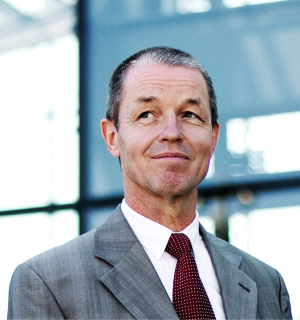
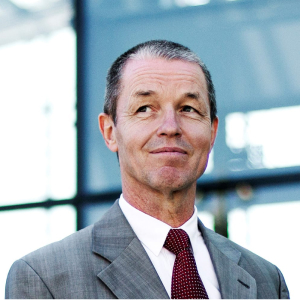
style updates

diff --git a/app/routes/_index.tsx b/app/routes/_index.tsx
@@ -9,8 +9,8 @@ import {
 
 export const meta: MetaFunction = () => {
   return [
-    { title: 'Remix+Vite' },
-    { name: 'description', content: 'Welcome to Remix+Vite!' },
+    { title: 'Sakamico Mining Company Inc.' },
+    { name: 'description', content: 'Sustainable Gold Mining in Liberia  ' },
   ]
 }
 
@@ -62,7 +62,7 @@ export default function Index() {
               <button
                 data-collapse-toggle="mobile-menu-2"
                 type="button"
-                className="ml-1 inline-flex items-center rounded-lg p-2 text-sm text-gray-500 hover:bg-gray-100 focus:outline-none focus:ring-2 focus:ring-gray-200 lg:hidden  "
+                className="ml-1 inline-flex items-center rounded-lg p-2 text-sm text-gray-500 hover:bg-gray-100 hover:text-black focus:outline-none focus:ring-2 focus:ring-gray-200 lg:hidden  "
                 aria-controls="mobile-menu-2"
                 aria-expanded="false"
               >
@@ -98,6 +98,22 @@ export default function Index() {
               id="mobile-menu-2"
             >
               <ul className="mt-4 flex flex-col text-xl font-medium lg:mt-0 lg:flex-row lg:space-x-8">
+                <li>
+                  <a
+                    href="#value"
+                    className="lg:hover:text-primary-700 block border-b border-gray-100 py-2 pl-3 pr-4 text-gray-300 hover:bg-gray-50 lg:border-0 lg:p-0 lg:hover:bg-transparent  "
+                  >
+                    Gold Commodity
+                  </a>
+                </li>
+                <li>
+                  <a
+                    href="#about"
+                    className="lg:hover:text-primary-700 block border-b border-gray-100 py-2 pl-3 pr-4 text-gray-300 hover:bg-gray-50 lg:border-0 lg:p-0 lg:hover:bg-transparent  "
+                  >
+                    About Sakamico
+                  </a>
+                </li>
                 <li>
                   <a
                     href="#team"
@@ -153,8 +169,8 @@ export default function Index() {
               </p>
 
               <a
-                href="#"
-                className="inline-flex items-center justify-center  border border-gray-300 px-5 py-3 text-center text-xl font-medium text-gray-200 hover:bg-gray-100 focus:ring-4 focus:ring-gray-100  "
+                href="#value"
+                className="inline-flex items-center justify-center  border border-gray-300 px-5 py-3 text-center text-xl font-medium text-gray-200 hover:bg-gray-100 hover:text-gray-900 focus:ring-4 focus:ring-gray-100  "
               >
                 Learn More{' '}
               </a>
@@ -166,23 +182,83 @@ export default function Index() {
           </div>
         </section>
 
-        <section className="bg-[#191919] text-white">
+        <section id="value" className="bg-[#191919] text-white">
           <div className=" mx-auto px-4 py-8 lg:px-6  lg:pt-32 ">
-            <div className="mx-auto mb-8 text-center ">
+            <div className="mx-auto mb-16 text-center ">
               <h2 className="text-base font-semibold leading-7 text-yellow-500">
                 Sound Investment
               </h2>
-              <p className="mb-12 mt-2 text-3xl font-bold tracking-tight text-gray-100 sm:text-4xl">
-                Today's Gold Prices
+              <p className=" mt-2 text-3xl font-bold tracking-tight text-gray-100 sm:text-4xl">
+                Gold: A Stable Investment at an All Time High{' '}
               </p>
-              <iframe
-                src="https://goldbroker.com/widget/live/XAU?currency=USD&height=500"
-                scrolling="no"
-                frameBorder="0"
-                width="100%"
-                height="500"
-                style={{ border: 0, overflow: 'hidden' }}
-              ></iframe>
+              <p className="mx-auto mt-2 max-w-6xl font-light text-gray-400 sm:text-xl lg:mb-6 ">
+                Gold's remarkable journey to its current peak value underscores
+                its unwavering appeal as a secure and steady investment. Amidst
+                global economic uncertainties, gold shines as a resilient store
+                of value, offering investors a safe haven and a hedge against
+                inflation. Its current all-time high not only reflects its
+                enduring significance but also presents a prime opportunity for
+                those looking to diversify and strengthen their investment
+                portfolio with a commodity that has consistently proven its
+                worth over time.
+              </p>
+              <div className="flex flex-col md:flex-row md:space-x-2">
+                <div className="flex w-full flex-col space-y-2">
+                  <iframe
+                    src="https://goldbroker.com/widget/live/XAU?currency=USD&weight_unit=kg&height=500"
+                    scrolling="no"
+                    frameBorder="0"
+                    width="100%"
+                    height="500"
+                    style={{ border: 0, overflow: 'hidden' }}
+                  ></iframe>
+                  <p>Todays Prices</p>
+                </div>
+                <div className="flex w-full flex-col space-y-2">
+                  <iframe
+                    src="https://goldbroker.com/widget/historical/XAU?height=500&currency=USD&weight_unit=kg"
+                    scrolling="no"
+                    frameBorder="0"
+                    width="100%"
+                    height="500"
+                    style={{ border: 0, overflow: 'hidden' }}
+                  ></iframe>
+                  <p>All Time High </p>
+                </div>
+              </div>
+            </div>
+          </div>
+        </section>
+
+        <section id="about">
+          <div className=" md:max-w-screen-3xl p-6  md:grid  md:grid-cols-5 md:gap-16 md:p-32 ">
+            <div className="col-span-2 max-w-2xl">
+              <h2 className="text-base font-semibold leading-7 text-yellow-700">
+                About Sakamico
+              </h2>
+              <p className="mt-2 text-3xl font-bold tracking-tight text-gray-900 sm:text-4xl">
+                Mining with Impact, Transparency, & Trust{' '}
+              </p>
+              <p className="mt-2  font-light text-gray-400 sm:text-xl lg:mb-6 ">
+                At Sakamico, we are committed to more than just mining. We
+                strive to enhance the community that surrounds us, providing
+                local employment opportunities, comprehensive training, and
+                improving local infrastructure by supporting a school and a
+                health clinic.
+                <p className="mt-2  font-light text-gray-400 sm:text-xl lg:mb-6">
+                  We are committed to upholding the highest standards of
+                  environmental stewardship in adherence to the Environmental
+                  Protection and Management Law (EPML) and the Sackson Consult
+                  (ISO) Compliance certification.
+                </p>
+              </p>
+            </div>
+            <div className="col-span-3 w-full ">
+              <img
+                className="w-full rounded-lg sm:rounded-none sm:rounded-l-lg"
+                src="images/intro-img.png"
+                alt="intro"
+              />
             </div>
           </div>
         </section>
@@ -196,7 +272,7 @@ export default function Index() {
               <p className="mt-2 text-3xl font-bold tracking-tight text-gray-900 sm:text-4xl">
                 Committed Experts from a World of Experience
               </p>
-              <p className="font-light text-gray-400 sm:text-xl lg:mb-6 ">
+              <p className="mt-2 font-light text-gray-400 sm:text-xl lg:mb-6 ">
                 Meet the people behind Sakamico: Our executive team combines
                 decades of expertise in the gold mining industry, and
                 international business with a forward-thinking approach to
@@ -341,14 +417,14 @@ export default function Index() {
         <section className="bg-gray-50" id="sustainability">
           <div className="bg-white py-24 sm:py-32">
             <div className="mx-auto max-w-7xl px-6 lg:px-8">
-              <div className="mx-auto max-w-2xl lg:text-center">
+              <div className="mx-auto  max-w-screen-lg lg:text-center">
                 <h2 className="text-base font-semibold leading-7 text-yellow-700">
                   Sustainable Focus
                 </h2>
                 <p className="mt-2 text-3xl font-bold tracking-tight text-gray-900 sm:text-4xl">
                   Sustainable Excellence: Our Commitment to People and Planet
                 </p>
-                <p className="mt-6 text-lg leading-8 text-gray-600">
+                <p className="mt-2 font-light text-gray-400 sm:text-xl lg:mb-6 ">
                   Sakamico is dedicated to embedding sustainable mining
                   practices into the core of our operations. Our commitment to
                   sustainability is demonstrated through a comprehensive
@@ -380,12 +456,16 @@ export default function Index() {
         </section>
 
         <section id="process">
-          <div className="relative  bg-[#191919] px-6   lg:px-0">
+          <div className="relative bg-[#191919] px-6  py-6 md:py-0   lg:px-0">
             <div className="mx-auto grid  grid-cols-1 lg:mx-0 lg:max-w-none lg:grid-cols-4  lg:items-start  ">
               <div className="  lg:col-span-2   lg:row-span-2  ">
-                <img className="w-auto" src="images/exploration3.webp" alt="" />
+                <img
+                  className="w-auto"
+                  src="images/sakamico-exploration1.jpg"
+                  alt=""
+                />
               </div>
-              <div className="mt-12 md:mt-24  lg:col-span-2  lg:mx-auto  lg:w-full lg:grid-cols-2 lg:px-8">
+              <div className="mb-12 mt-12 md:mb-0 md:mt-24  lg:col-span-2  lg:mx-auto  lg:w-full lg:grid-cols-2 lg:px-8">
                 <div className="lg:pl-12">
                   <div className="lg:max-w-lg">
                     <p className="text-base font-semibold leading-7 text-yellow-700">
@@ -393,7 +473,7 @@ export default function Index() {
                       <span className="text-yellow-500">Exploration</span>
                     </p>
 
-                    <h2 className="mt-2 text-3xl font-bold tracking-tight text-gray-200 sm:text-4xl">
+                    <h2 className="mt-2 text-3xl font-bold tracking-tight text-gray-200 sm:text-4xl ">
                       Unveiling Potential
                     </h2>
                     <p className="mt-6 text-lg leading-8 text-gray-200">
@@ -411,7 +491,7 @@ export default function Index() {
             </div>
           </div>
 
-          <div className="relative  bg-gray-100 px-6   lg:px-0">
+          <div className="relative  bg-gray-100 px-6 py-6 md:py-0  lg:px-0">
             <div className="mx-auto grid max-w-2xl grid-cols-1  gap-y-16 lg:mx-0 lg:max-w-none lg:grid-cols-2 lg:items-start ">
               <div className="mt-12 md:mt-24 lg:col-span-2 lg:col-start-1 lg:row-start-1 lg:mx-auto lg:grid lg:w-full lg:max-w-7xl lg:grid-cols-2 lg:gap-x-8 lg:px-8">
                 <div className="lg:pr-4">
@@ -428,9 +508,11 @@ export default function Index() {
                       marked by a series of carefully orchestrated steps.
                       Starting with excavation, we gently uncover the
                       gold-bearing materials, ensuring every grain is accounted
-                      for. This process seamlessly transitions into washing,
-                      where gold is separated from other materials, revealing
-                      its true worth.
+                      for. We use a surface extraction method which poses the
+                      minimal impact to the environment aswell as being the
+                      safest form of mining for our workers.This process
+                      seamlessly transitions into washing, where gold is
+                      separated from other materials, revealing its true worth.
                     </p>
                   </div>
                 </div>
@@ -441,12 +523,12 @@ export default function Index() {
             </div>
           </div>
 
-          <div className="relative isolate overflow-hidden bg-[#191919]  px-6  lg:overflow-visible lg:px-0">
+          <div className="relative isolate overflow-hidden bg-[#191919] px-6 py-6  md:py-0  lg:overflow-visible lg:px-0">
             <div className="mx-auto grid  grid-cols-1 lg:mx-0 lg:max-w-none lg:grid-cols-4  lg:items-start ">
               <div className="  lg:sticky lg:col-span-2   lg:row-span-2  lg:overflow-hidden">
                 <img className="w-full" src="images/export.jpg" alt="" />
               </div>
-              <div className=" mt-12 md:mt-24 lg:col-span-2  lg:mx-auto  lg:w-full  lg:grid-cols-2 lg:px-8">
+              <div className=" mb-12 mt-12 md:mb-0 md:mt-24 lg:col-span-2  lg:mx-auto  lg:w-full  lg:grid-cols-2 lg:px-8">
                 <div className="lg:pl-12">
                   <div className="lg:max-w-lg">
                     <p className="text-base font-semibold leading-7 text-yellow-700">
@@ -472,7 +554,7 @@ export default function Index() {
             </div>
           </div>
 
-          <div className="relative  bg-gray-100 px-6   lg:px-0">
+          <div className="relative  bg-gray-100 px-6 py-6 md:py-0  lg:px-0">
             <div className="mx-auto grid max-w-2xl grid-cols-1  gap-y-16 lg:mx-0 lg:max-w-none lg:grid-cols-2 lg:items-start lg:gap-y-10">
               <div className="mt-12 md:mt-24 lg:col-span-2 lg:col-start-1 lg:row-start-1 lg:mx-auto lg:grid lg:w-full lg:max-w-7xl lg:grid-cols-2 lg:gap-x-8 lg:px-8">
                 <div className="lg:pr-4">
@@ -503,12 +585,12 @@ export default function Index() {
             </div>
           </div>
 
-          <div className="relative isolate overflow-hidden bg-[#191919] px-6  lg:overflow-visible lg:px-0">
+          <div className="relative isolate overflow-hidden bg-[#191919] px-6 py-6 md:py-0  lg:overflow-visible lg:px-0">
             <div className="mx-auto grid  grid-cols-1 lg:mx-0 lg:max-w-none lg:grid-cols-4  lg:items-start ">
               <div className="  lg:sticky lg:col-span-2   lg:row-span-2  lg:overflow-hidden">
                 <img className="w-full" src="images/value.jpg" alt="" />
               </div>
-              <div className="mt-12 md:mt-24 lg:col-span-2  lg:mx-auto  lg:w-full  lg:grid-cols-2 lg:px-8">
+              <div className="mb-12 mt-12 md:mb-0 md:mt-24 lg:col-span-2  lg:mx-auto  lg:w-full  lg:grid-cols-2 lg:px-8">
                 <div className="lg:pl-12">
                   <div className="lg:max-w-lg">
                     <p className="text-base font-semibold leading-7 text-yellow-700">
@@ -548,12 +630,23 @@ export default function Index() {
                   />
                 </a>
               </div>
+
               <div className="grid grid-cols-2 gap-8 sm:grid-cols-3 sm:gap-6">
                 <div>
                   <h2 className="mb-6 text-sm font-semibold uppercase text-gray-900 ">
                     Links
                   </h2>
                   <ul className="text-gray-600 ">
+                    <li className="mb-4">
+                      <a href="#value" className="hover:underline">
+                        Gold Commodity
+                      </a>
+                    </li>
+                    <li className="mb-4">
+                      <a href="#about" className="hover:underline">
+                        About Sakamico
+                      </a>
+                    </li>
                     <li className="mb-4">
                       <a href="#team" className="hover:underline">
                         Executive Team
